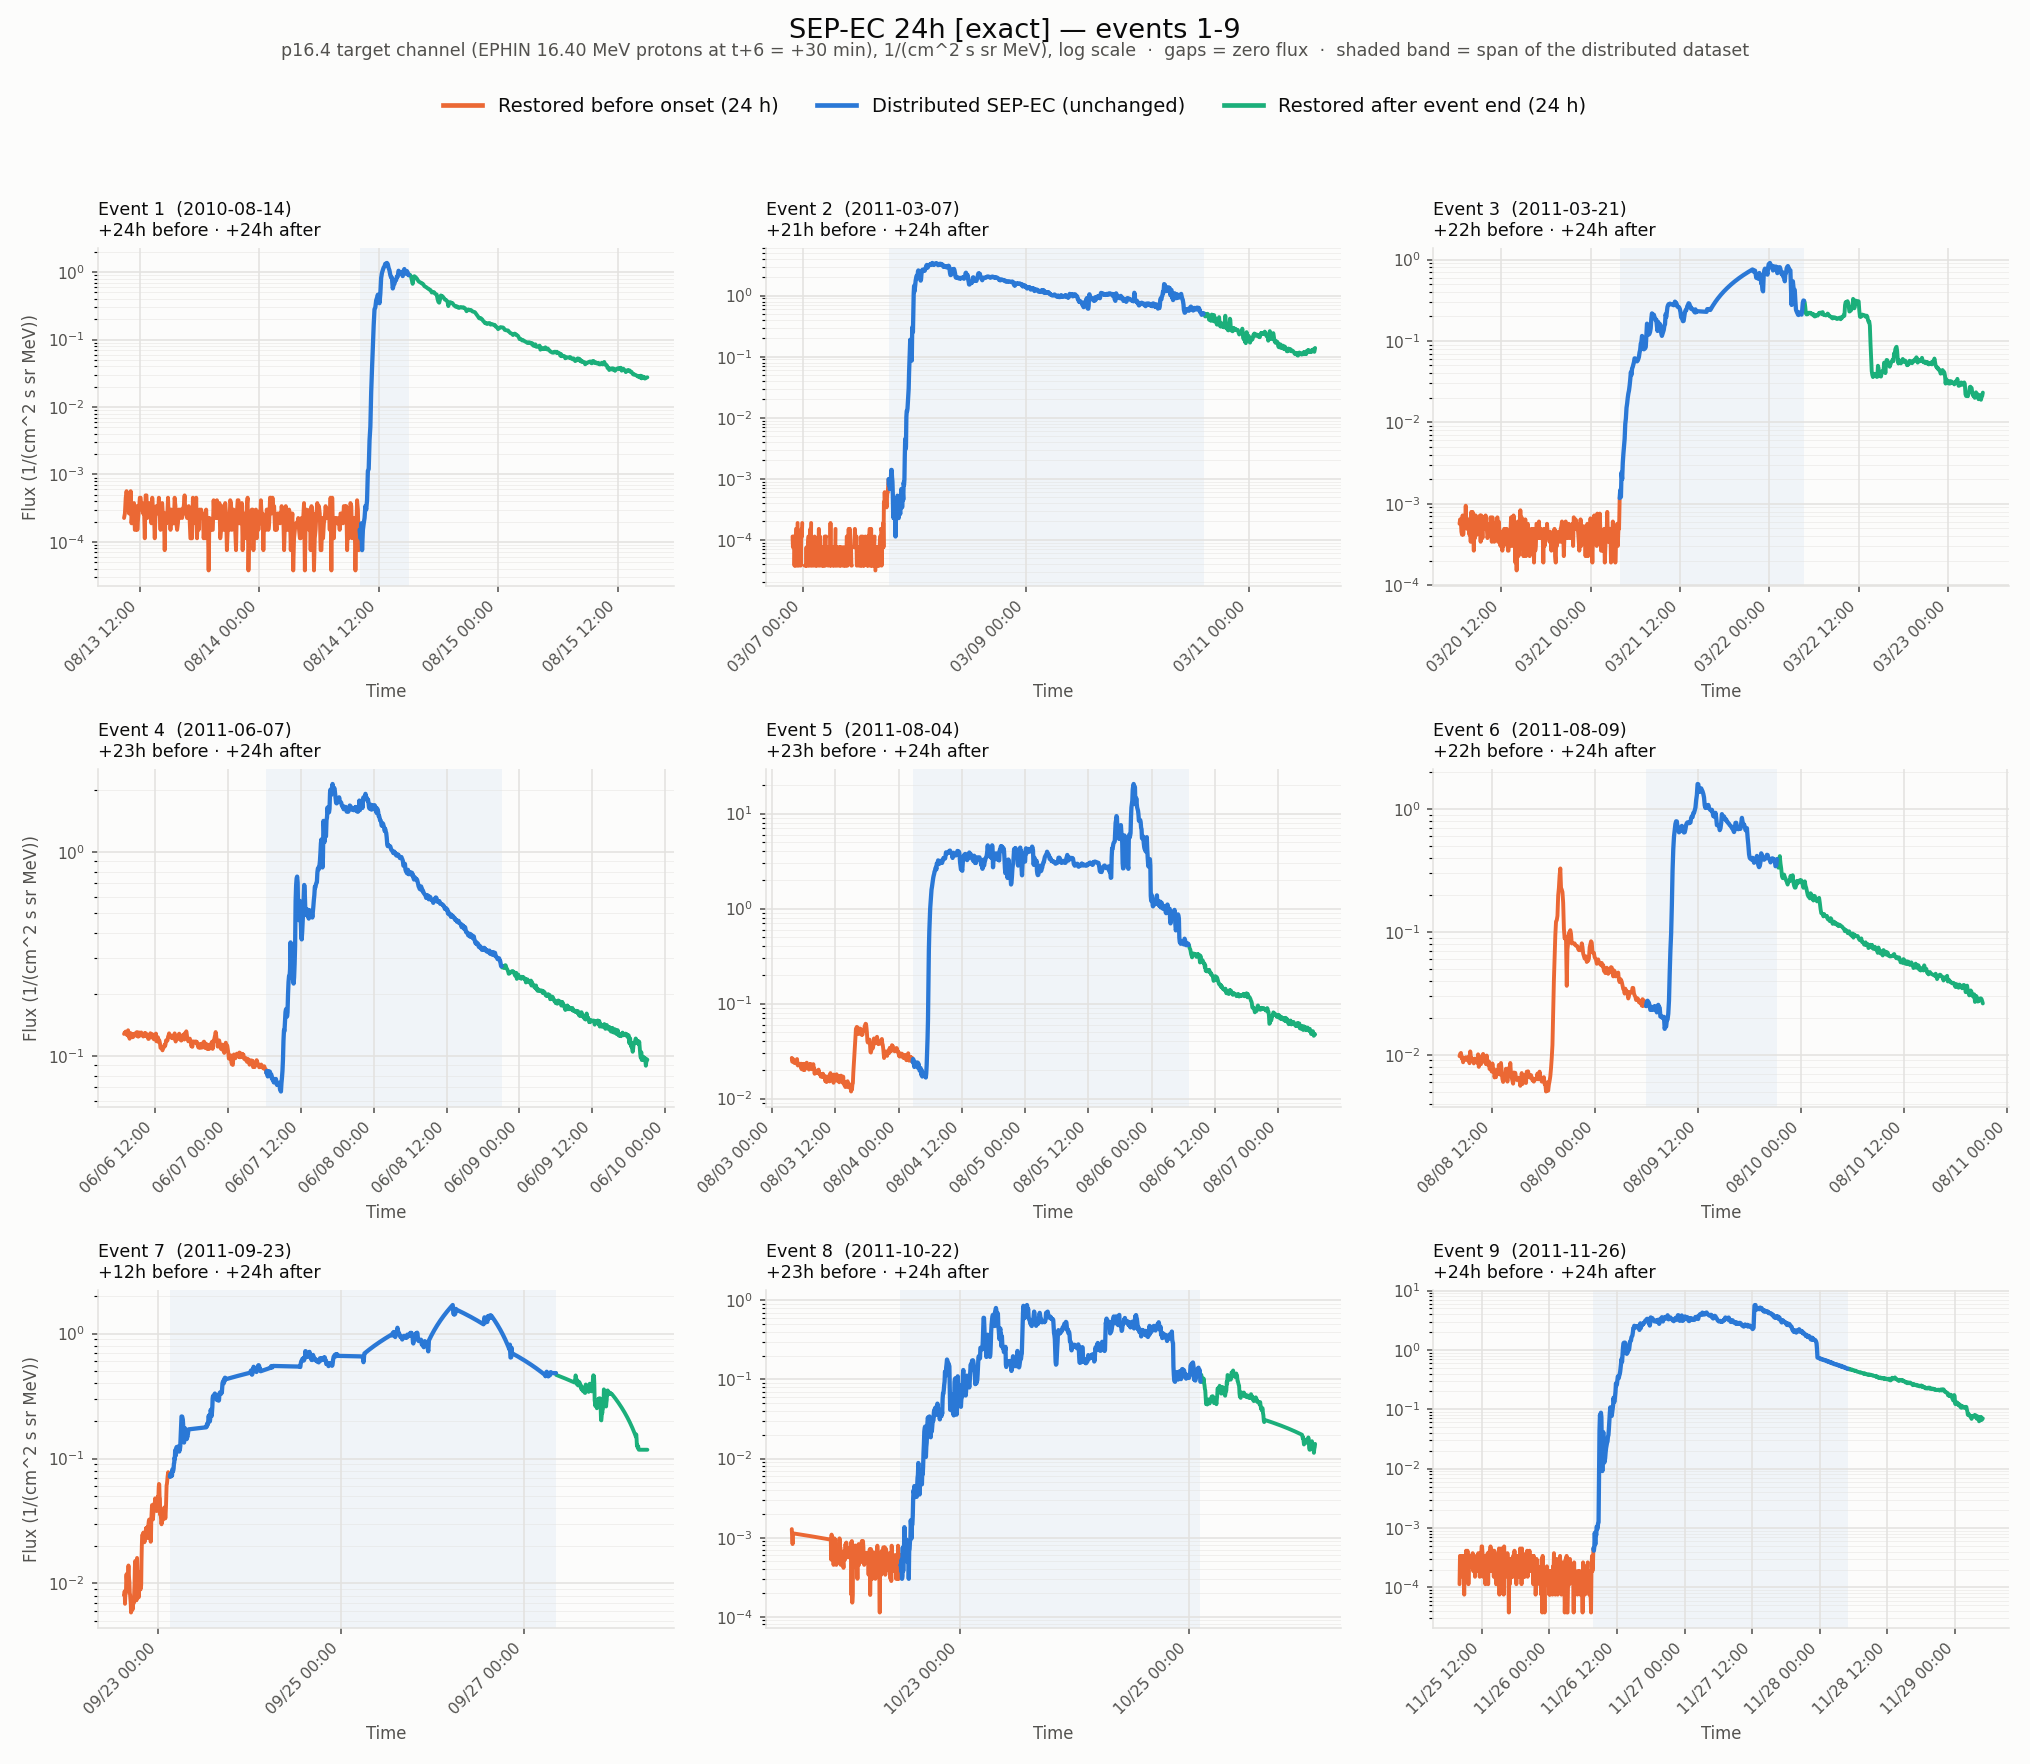
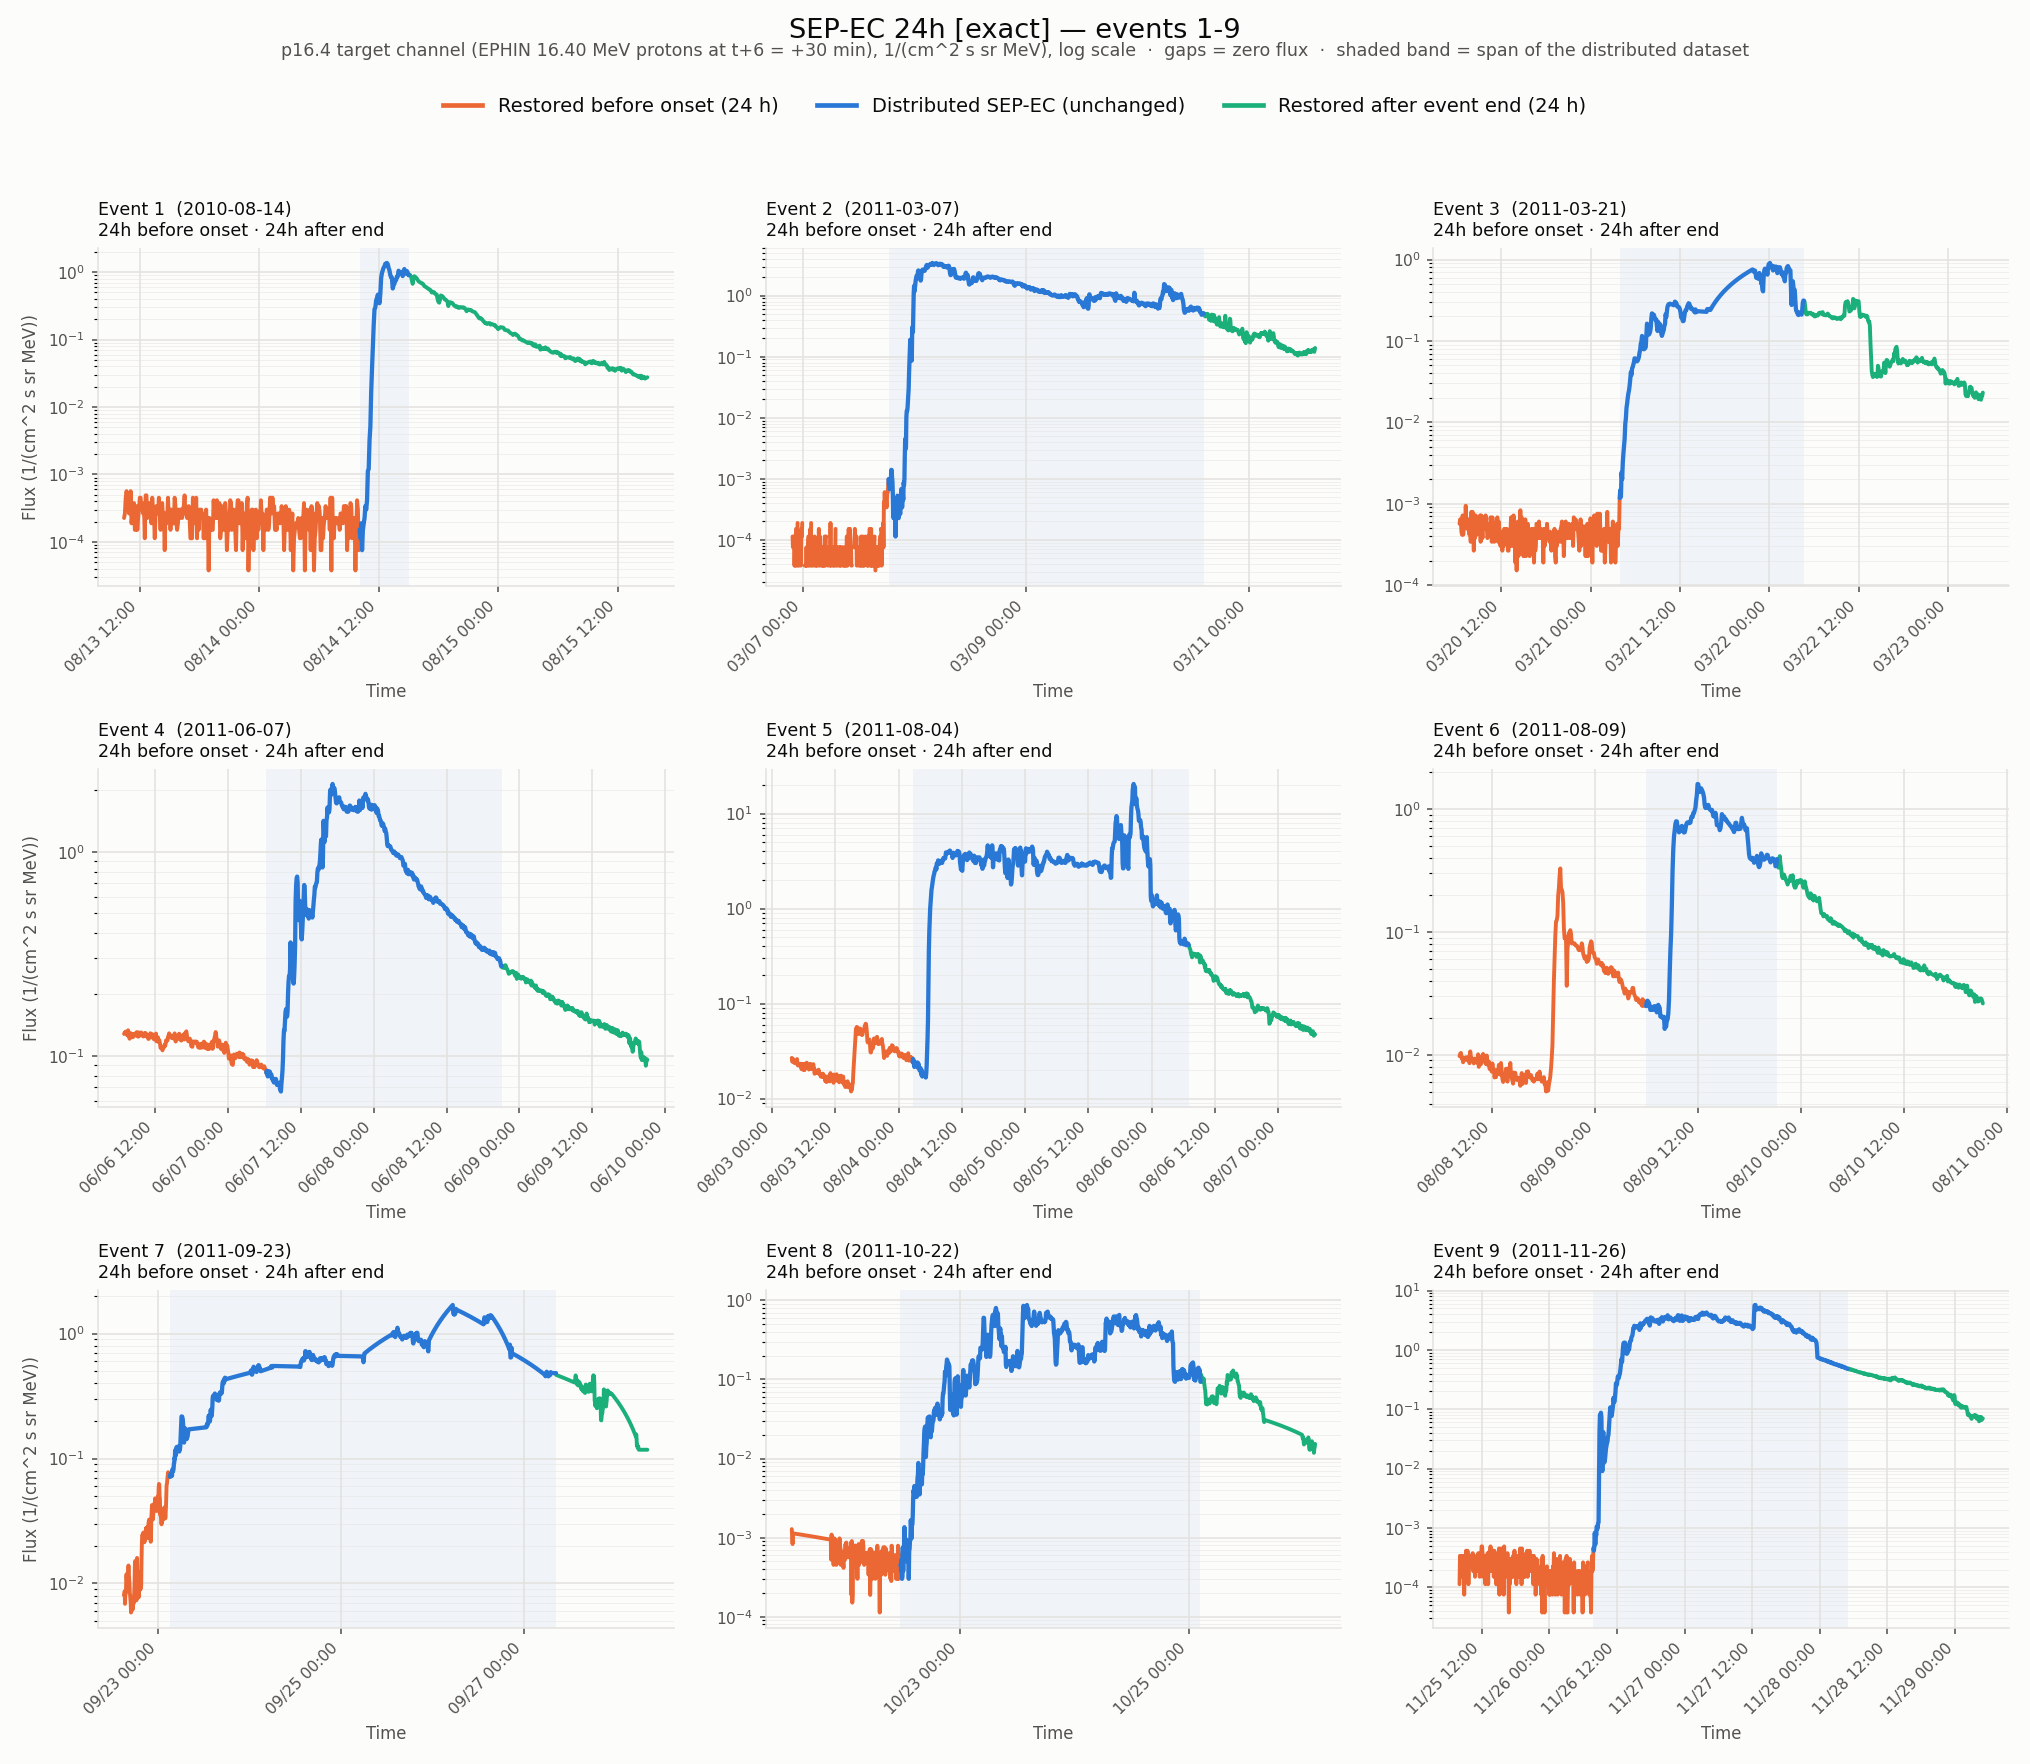
Label figure panels with the actual window, not the appended block
Panels read "+12h before" on events that do cover a full 24h before onset. The label
was computed from rows_pre, which counts rows added ahead of SEP-EC's own first row -
but SEP-EC's file already starts some hours before onset, so the appended block is
smaller than the window. Event 16 showed "+28h before" for the opposite reason: trim
had cut past onset there, so the appended block spans more than 24h.

Titles now report hours_before_onset and hours_after_end, which is what was actually
asked for. In the exact build every panel now reads "24h before onset / 24h after end".

diff --git a/SEP-EC-24h-exact/scripts/build24_figs.py b/SEP-EC-24h-exact/scripts/build24_figs.py
@@ -59,10 +59,11 @@ def panel(ax, ev, man, mode):
     for s_ in ('left', 'bottom'):
         ax.spines[s_].set_color(GRID)
     ax.tick_params(colors=INK2, labelsize=8, length=3)
-    bits = [f"+{r.hours_pre:.0f}h before" if r.rows_pre else None,
-            f"+{r.hours_post:.0f}h after" if r.rows_post else None]
-    bits = [b for b in bits if b]
-    ax.set_title(f"Event {ev}  ({sh['t'].iloc[0]:%Y-%m-%d})\n{' · '.join(bits) or 'unchanged'}",
+    # label the ACTUAL window relative to onset / event end - that is what was asked
+    # for - not the size of the block appended to SEP-EC's own span
+    hb, ha = r.hours_before_onset, r.hours_after_end
+    ax.set_title(f"Event {ev}  ({sh['t'].iloc[0]:%Y-%m-%d})\n"
+                 f"{hb:.0f}h before onset · {ha:.0f}h after end",
                  fontsize=9, color=INK, pad=6, loc='left')
     ax.xaxis.set_major_formatter(mdates.DateFormatter('%m/%d %H:%M'))
     ax.xaxis.set_major_locator(mdates.AutoDateLocator(maxticks=4))

diff --git a/SEP-EC-24h-safe/scripts/build24_figs.py b/SEP-EC-24h-safe/scripts/build24_figs.py
@@ -59,10 +59,11 @@ def panel(ax, ev, man, mode):
     for s_ in ('left', 'bottom'):
         ax.spines[s_].set_color(GRID)
     ax.tick_params(colors=INK2, labelsize=8, length=3)
-    bits = [f"+{r.hours_pre:.0f}h before" if r.rows_pre else None,
-            f"+{r.hours_post:.0f}h after" if r.rows_post else None]
-    bits = [b for b in bits if b]
-    ax.set_title(f"Event {ev}  ({sh['t'].iloc[0]:%Y-%m-%d})\n{' · '.join(bits) or 'unchanged'}",
+    # label the ACTUAL window relative to onset / event end - that is what was asked
+    # for - not the size of the block appended to SEP-EC's own span
+    hb, ha = r.hours_before_onset, r.hours_after_end
+    ax.set_title(f"Event {ev}  ({sh['t'].iloc[0]:%Y-%m-%d})\n"
+                 f"{hb:.0f}h before onset · {ha:.0f}h after end",
                  fontsize=9, color=INK, pad=6, loc='left')
     ax.xaxis.set_major_formatter(mdates.DateFormatter('%m/%d %H:%M'))
     ax.xaxis.set_major_locator(mdates.AutoDateLocator(maxticks=4))
